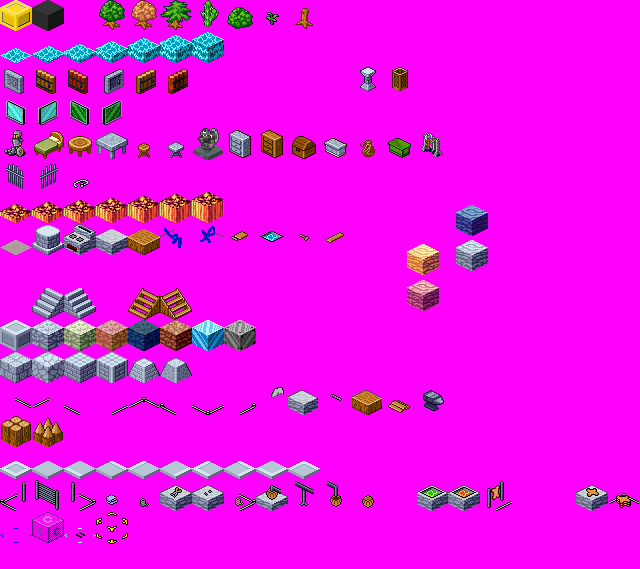
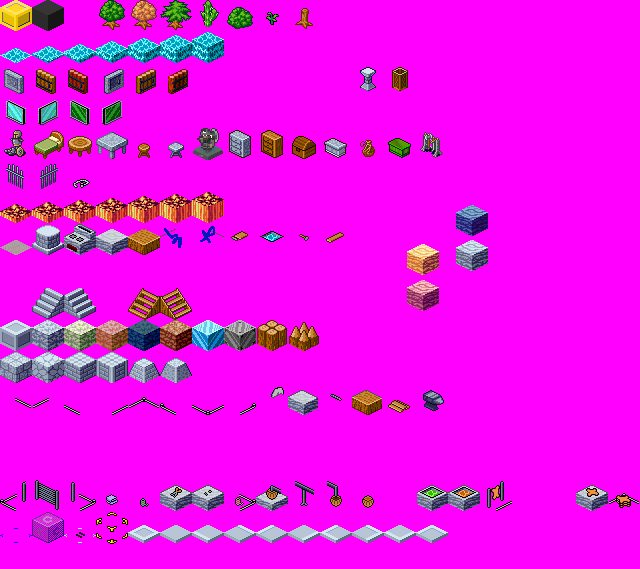
Added F10 key to show sprite sheet index overview. Cleaned up objects.png

Changed region(s): [[0.0, 0.717, 0.5, 0.8366], [0.1875, 0.9262, 0.7188, 0.9561], [0.375, 0.5677, 0.5, 0.6274]]

diff --git a/GUI.cpp b/GUI.cpp
@@ -119,7 +119,6 @@ void drawDebugCursorAndInfo(BITMAP* target){
     textprintf(target, font, 2, config.screenHeight-20-(i--*10), 0xFFFFFF, 
       "flag1: %s ", strCreature );
   }
-
 }
 
 void DrawMinimap(BITMAP* target){
@@ -167,6 +166,25 @@ void DrawSpriteFromSheet( int spriteNum, BITMAP* target, BITMAP* spriteSheet, in
       x, y - (WALLHEIGHT), SPRITEWIDTH, SPRITEHEIGHT);
 }
 
+void DrawSpriteIndexOverlay(){
+  clear_to_color(screen, makecol(255,0,255));
+  draw_sprite(screen,IMGObjectSheet,0,0);
+  for(int i =0; i<= 20*SPRITEWIDTH; i+=SPRITEWIDTH)
+    line(screen, i,0,i, config.screenHeight, 0);
+  for(int i =0; i< config.screenHeight; i+=SPRITEHEIGHT)
+    line(screen, 0,i, 20*SPRITEWIDTH,i, 0);
+
+  for(int y = 0; y<20; y++){
+    for(int x = 0; x<20; x+=5){
+      int index = y * 20 + x;
+      textprintf(screen, font,  x*SPRITEWIDTH+5, y* SPRITEHEIGHT+5, 0xFFffFF, "%i", index);
+    }
+  }
+  textprintf_right(screen, font, config.screenWidth-10, config.screenHeight -10, 0xFFffFF, "Press any key to continiue");
+  readkey();
+  //while(!key[KEY_SPACE]);
+}
+
 void paintboard(){
 	uint32_t starttime = clock();
 	if(!buffer)
@@ -183,6 +201,9 @@ void paintboard(){
   select_palette(pal);
 */
 	DrawMinimap(buffer);
+
+  //drawdebugblah();
+
 
 	DrawCurrentLevelOutline(buffer, true);
   viewedSegment->drawAllBlocks(buffer);

diff --git a/SpriteMaps.h b/SpriteMaps.h
@@ -90,6 +90,8 @@ enum enumFloorSprites{
   SPRITEOBJECT_WALL_SOIL = 205,
   SPRITEOBJECT_WALL_FROZEN = 206,
   SPRITEOBJECT_WALL_METAL = 207,
+	SPRITEOBJECT_WALL_WOOD = 208,
+  SPRITEOBJECT_WALL_WOOD_FORTIFICATION = 209,
 
 	SPRITEOBJECT_WALL_STONE_SMOOTH = 220,
   //SPRITEOBJECT_WALL_CONSTR_SMOOTH = 73,
@@ -98,11 +100,9 @@ enum enumFloorSprites{
   SPRITEOBJECT_WALL_FORTIFICATION = 224,
   SPRITEOBJECT_WALL_CONSTR_FORTIFICATION = 225,
 
-	SPRITEOBJECT_WALL_WOOD = 260,
-  SPRITEOBJECT_WALL_WOOD_FORTIFICATION = 261,
   
 	
-
+/*
   SPRITEOBJECT_BRIDGE_C = 280,
   SPRITEOBJECT_BRIDGE_C2 = 281,
   SPRITEOBJECT_BRIDGE_S = 282,
@@ -113,7 +113,7 @@ enum enumFloorSprites{
   SPRITEOBJECT_BRIDGE_NE = 287,
   SPRITEOBJECT_BRIDGE_SE = 288,
   SPRITEOBJECT_BRIDGE_NW = 289,
-
+*/
 
   SPRITEOBJECT_CURSORZONE = 320,
   SPRITEOBJECT_BLUEPRINT = 321,

diff --git a/GUI.h b/GUI.h
@@ -12,6 +12,7 @@ void paintboard();
 
 void DrawSpriteFromSheet( int spriteNum, BITMAP* target, BITMAP* spriteSheet, int x, int y);
 BITMAP* load_bitmap_withWarning(char* path);
+void DrawSpriteIndexOverlay();
 void loadGraphicsFromDisk();
 void destroyGraphics();
 void saveScreenshot();

diff --git a/UserInput.cpp b/UserInput.cpp
@@ -98,6 +98,10 @@ void doKeys(){
   if(key[KEY_F5]){
     while(key[KEY_F5]);
     saveScreenshot();
+  } 
+  if(key[KEY_F10]){
+    while(key[KEY_F10]);
+    DrawSpriteIndexOverlay();
   }
   if(key[KEY_PLUS_PAD]){
     config.automatic_reload_time += 500;
